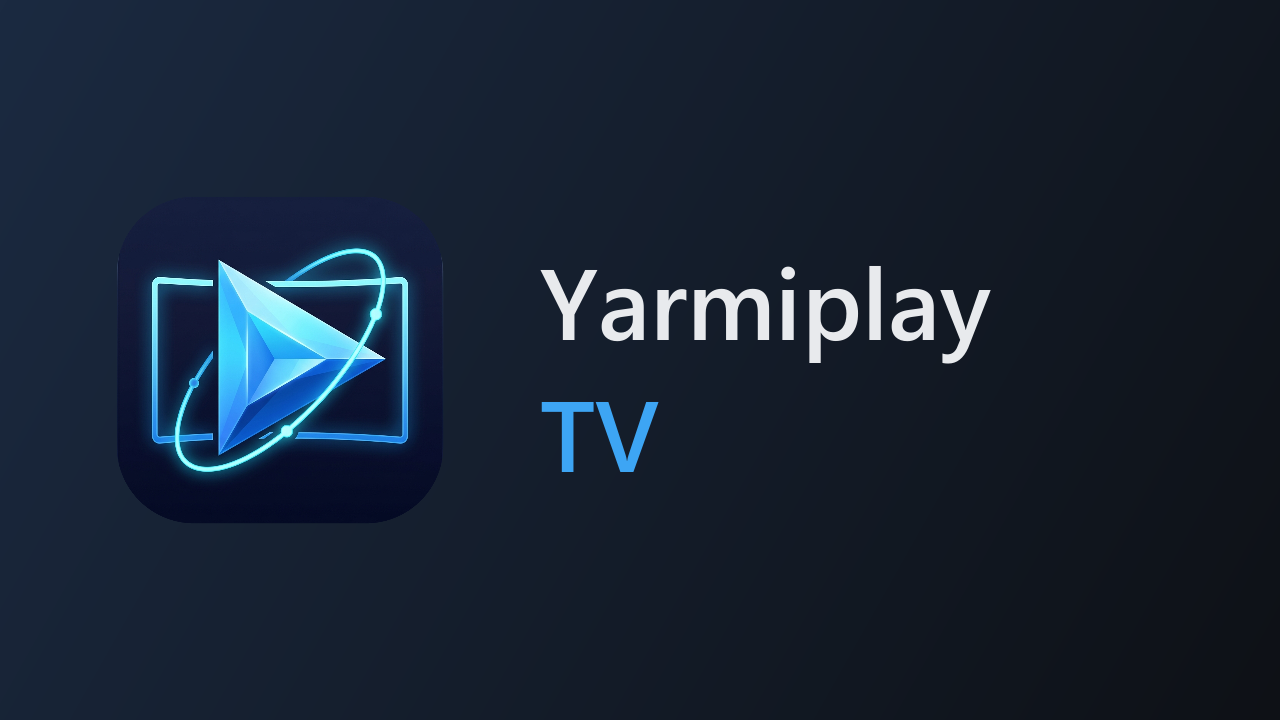
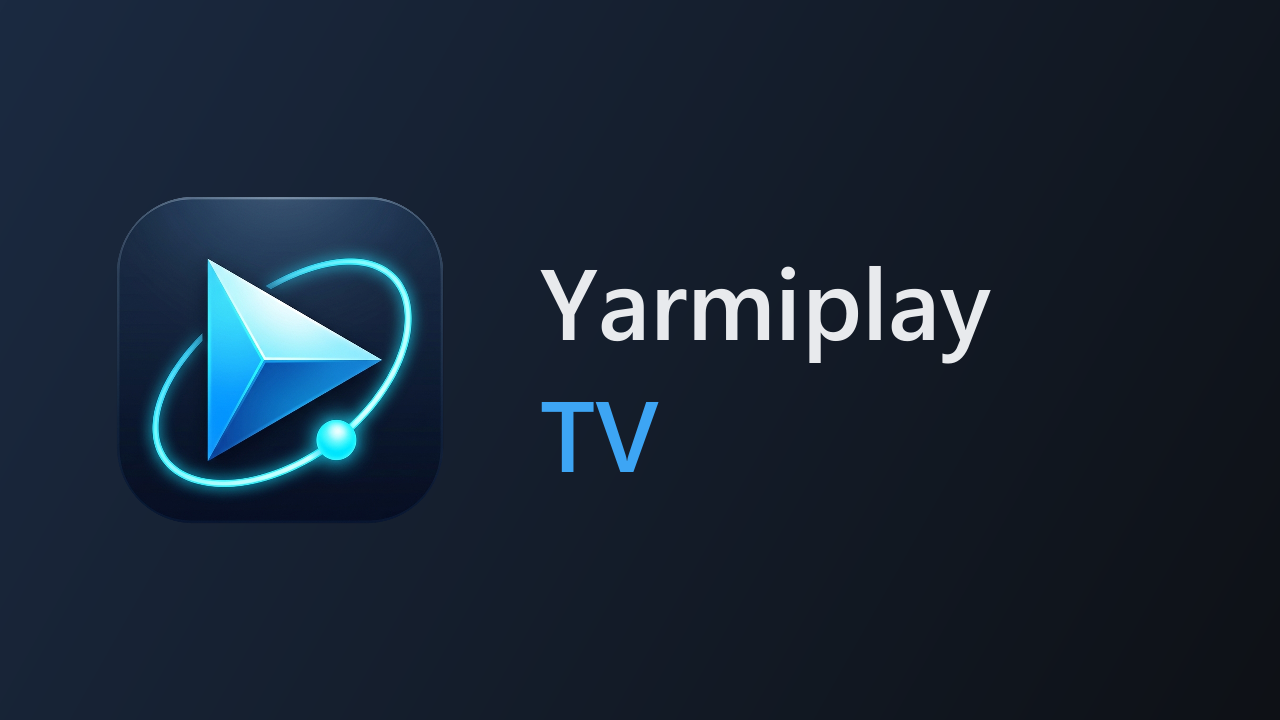
Simplify brand identity with streamlined orbital sync and enlarged 3D play prism across all platforms (2.4.2)

Changed region(s): [[0.0938, 0.275, 0.3438, 0.7028]]

diff --git a/scripts/download_site.py b/scripts/download_site.py
@@ -55,46 +55,38 @@ LOGO_SVG = (
       <stop offset="0%" stop-color="#1B2A41"/>
       <stop offset="100%" stop-color="#0E1116"/>
     </linearGradient>
-    <linearGradient id="tv-frame" x1="17.5" y1="30.5" x2="90.5" y2="77.5" gradientUnits="userSpaceOnUse">
-      <stop offset="0%" stop-color="#70C4FF" stop-opacity="0.9"/>
-      <stop offset="100%" stop-color="#1E68B8" stop-opacity="0.6"/>
-    </linearGradient>
-    <linearGradient id="prism-top" x1="36" y1="26" x2="84" y2="54" gradientUnits="userSpaceOnUse">
+    <linearGradient id="prism-top" x1="31" y1="20" x2="89" y2="54" gradientUnits="userSpaceOnUse">
       <stop offset="0%" stop-color="#FFFFFF"/>
       <stop offset="40%" stop-color="#99DEFF"/>
       <stop offset="100%" stop-color="#3DA5F4"/>
     </linearGradient>
-    <linearGradient id="prism-bottom" x1="52" y1="54" x2="36" y2="82" gradientUnits="userSpaceOnUse">
+    <linearGradient id="prism-bottom" x1="50" y1="54" x2="31" y2="88" gradientUnits="userSpaceOnUse">
       <stop offset="0%" stop-color="#1E68B8"/>
       <stop offset="100%" stop-color="#0D2E55"/>
     </linearGradient>
-    <linearGradient id="prism-spine" x1="36" y1="26" x2="36" y2="82" gradientUnits="userSpaceOnUse">
+    <linearGradient id="prism-spine" x1="31" y1="20" x2="31" y2="88" gradientUnits="userSpaceOnUse">
       <stop offset="0%" stop-color="#54B4FF"/>
       <stop offset="45%" stop-color="#3DA5F4"/>
       <stop offset="100%" stop-color="#1A5FA8"/>
     </linearGradient>
-    <linearGradient id="orbit-front" x1="26.5" y1="64.5" x2="81.5" y2="41.5" gradientUnits="userSpaceOnUse">
+    <linearGradient id="orbit-front" x1="23" y1="70" x2="85" y2="38" gradientUnits="userSpaceOnUse">
       <stop offset="0%" stop-color="#70C4FF"/>
       <stop offset="75%" stop-color="#FFFFFF"/>
       <stop offset="100%" stop-color="#A6E1FF"/>
     </linearGradient>
   </defs>
   <rect x="6.48" y="6.48" width="95.04" height="95.04" rx="20.9" fill="url(#logo-bg)" stroke="#fff" stroke-opacity=".12" stroke-width=".84"/>
-  <rect x="17.5" y="30.5" width="73" height="47" rx="8" fill="none" stroke="url(#tv-frame)" stroke-width="2.4" stroke-linecap="round"/>
-  <line x1="44" y1="82" x2="64" y2="82" stroke="#70C4FF" stroke-opacity="0.5" stroke-width="1.8" stroke-linecap="round"/>
-  <path d="M81.5 41.5 A36 21 -24 0 0 26.5 64.5" fill="none" stroke="#3DA5F4" stroke-opacity="0.55" stroke-width="2.2" stroke-linecap="round"/>
-  <polygon points="36,27.5 84,55.5 36,83.5" fill="#000" fill-opacity="0.35"/>
-  <polygon points="52,54 84,54 36,82" fill="url(#prism-bottom)"/>
-  <polygon points="36,26 52,54 36,82" fill="url(#prism-spine)"/>
-  <polygon points="36,26 84,54 52,54" fill="url(#prism-top)"/>
-  <line x1="52" y1="54" x2="84" y2="54" stroke="#FFF" stroke-opacity="0.9" stroke-width="1.0" stroke-linecap="round"/>
-  <line x1="36" y1="26" x2="52" y2="54" stroke="#FFF" stroke-opacity="0.65" stroke-width="0.8" stroke-linecap="round"/>
-  <line x1="36" y1="82" x2="52" y2="54" stroke="#70C4FF" stroke-opacity="0.65" stroke-width="0.8" stroke-linecap="round"/>
-  <polygon points="36,26 84,54 36,82" fill="none" stroke="#FFF" stroke-opacity="0.85" stroke-width="1.2" stroke-linejoin="round"/>
-  <path d="M26.5 64.5 A36 21 -24 0 0 81.5 41.5" fill="none" stroke="url(#orbit-front)" stroke-width="2.8" stroke-linecap="round"/>
-  <circle cx="29" cy="61.5" r="2.2" fill="#FFF"/>
-  <circle cx="56.5" cy="74.5" r="2.0" fill="#FFF"/>
-  <circle cx="81" cy="41.5" r="2.2" fill="#FFF"/>
+  <path d="M85 38 A38 24 -24 0 0 23 70" fill="none" stroke="#3DA5F4" stroke-opacity="0.6" stroke-width="3.2" stroke-linecap="round"/>
+  <polygon points="31,21.5 89,55.5 31,89.5" fill="#000" fill-opacity="0.35"/>
+  <polygon points="50,54 89,54 31,88" fill="url(#prism-bottom)"/>
+  <polygon points="31,20 50,54 31,88" fill="url(#prism-spine)"/>
+  <polygon points="31,20 89,54 50,54" fill="url(#prism-top)"/>
+  <line x1="50" y1="54" x2="89" y2="54" stroke="#FFF" stroke-opacity="0.9" stroke-width="1.2" stroke-linecap="round"/>
+  <line x1="31" y1="20" x2="50" y2="54" stroke="#FFF" stroke-opacity="0.65" stroke-width="1.0" stroke-linecap="round"/>
+  <line x1="31" y1="88" x2="50" y2="54" stroke="#70C4FF" stroke-opacity="0.65" stroke-width="1.0" stroke-linecap="round"/>
+  <polygon points="31,20 89,54 31,88" fill="none" stroke="#FFF" stroke-opacity="0.85" stroke-width="1.4" stroke-linejoin="round"/>
+  <path d="M23 70 A38 24 -24 0 0 85 38" fill="none" stroke="url(#orbit-front)" stroke-width="3.6" stroke-linecap="round"/>
+  <circle cx="65" cy="77" r="3.2" fill="#FFF"/>
 </svg>"""
 )
 # Markdown docs published as pages: file in docs/, folder on the site, footer link, search description.
